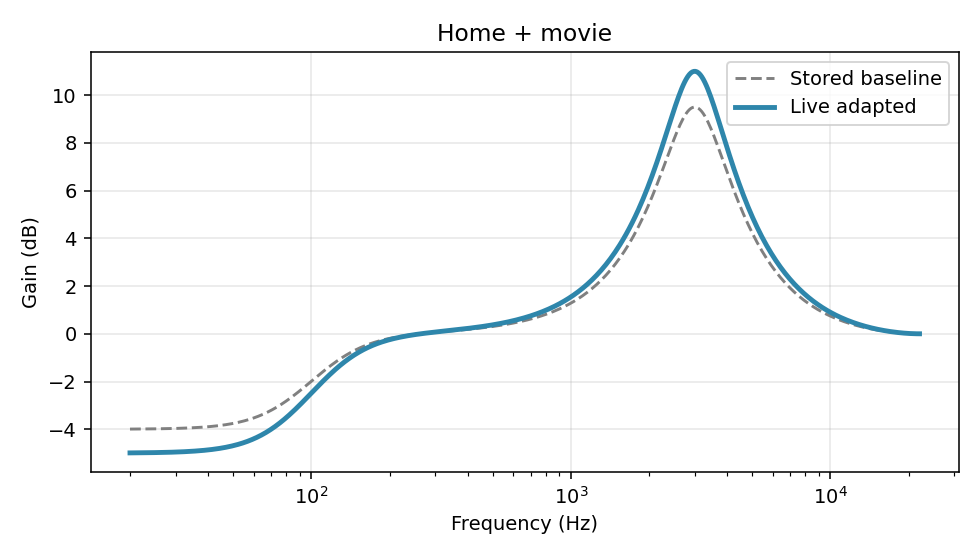
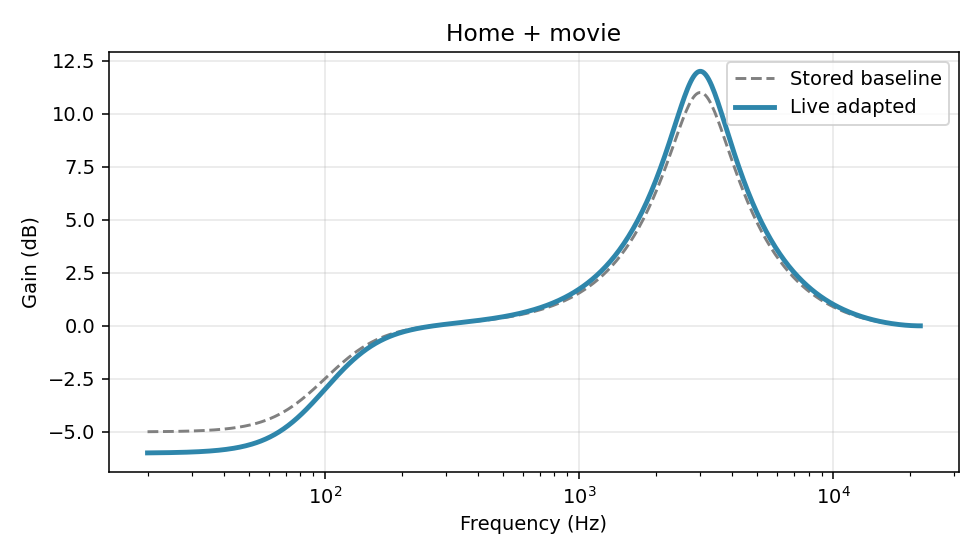
UI: minimalist, soft light theme for the dashboard
Custom .streamlit/config.toml theme (soft indigo primary, warm off-white
background) plus targeted CSS for card-style sections, rounded corners,
soft shadows, a gradient primary button, and Inter typography. Also
shortens genre-bucket/model labels so metric tiles don't truncate, and
tunes chart colors to match. No functional changes -- app.py's pipeline
calls and data flow are untouched.

diff --git a/app.py b/app.py
@@ -35,6 +35,92 @@ st.set_page_config(page_title="AuraTune", page_icon="🎧", layout="wide")
 SR = 44100
 USER_ID = "demo_user"
 
+# ---------------------------------------------------------------------------
+# Visual theme -- soft, minimalist, light. Colors/typography also configured
+# in .streamlit/config.toml; this fills in what the theme API can't reach
+# (card containers, metric tiles, buttons, chips) with the same palette.
+# ---------------------------------------------------------------------------
+_AURATUNE_CSS = """
+<link href="https://fonts.googleapis.com/css2?family=Inter:wght@400;500;600;700&display=swap" rel="stylesheet">
+<style>
+:root {
+    --at-primary: #6C7BFF;
+    --at-primary-soft: #EEF0FF;
+    --at-accent: #F5A56B;
+    --at-accent-soft: #FFF3E9;
+    --at-ink: #2D3142;
+    --at-muted: #767B93;
+    --at-card: #FFFFFF;
+    --at-border: #EAECF5;
+}
+html, body, [class*="css"] { font-family: 'Inter', -apple-system, sans-serif; }
+.block-container { padding-top: 2rem; padding-bottom: 3rem; max-width: 1200px; }
+h1 { font-weight: 700 !important; color: var(--at-ink) !important; letter-spacing: -0.02em; }
+h2, h3 { font-weight: 600 !important; color: var(--at-ink) !important; }
+[data-testid="stCaptionContainer"] { color: var(--at-muted) !important; }
+div[data-testid="stVerticalBlockBorderWrapper"] {
+    border: 1px solid var(--at-border) !important;
+    border-radius: 18px !important;
+    background: var(--at-card);
+    box-shadow: 0 2px 10px rgba(45, 49, 66, 0.04);
+    padding: 0.25rem 0.25rem;
+    margin-bottom: 1rem;
+}
+[data-testid="stMetric"] {
+    background: var(--at-primary-soft);
+    border-radius: 14px;
+    padding: 0.9rem 1rem;
+    border: 1px solid var(--at-border);
+}
+[data-testid="stMetricLabel"] { color: var(--at-muted) !important; }
+[data-testid="stMetricValue"] {
+    color: var(--at-ink) !important;
+    font-weight: 700 !important;
+    font-size: 1.05rem !important;
+    white-space: normal !important;
+    overflow: visible !important;
+    text-overflow: unset !important;
+    line-height: 1.3 !important;
+    word-break: break-word !important;
+}
+div.stButton > button {
+    border-radius: 12px !important;
+    font-weight: 600 !important;
+    transition: transform 0.12s ease, box-shadow 0.12s ease;
+    border: none !important;
+}
+div.stButton > button[kind="primary"] {
+    background: linear-gradient(135deg, #6C7BFF 0%, #8A7BFF 100%) !important;
+    box-shadow: 0 4px 14px rgba(108, 123, 255, 0.35);
+}
+div.stButton > button[kind="primary"]:hover {
+    transform: translateY(-1px);
+    box-shadow: 0 6px 18px rgba(108, 123, 255, 0.45);
+}
+div.stButton > button:not([kind="primary"]) { background: var(--at-primary-soft) !important; color: var(--at-ink) !important; }
+.stTextInput input, .stNumberInput input, [data-baseweb="select"] > div, .stFileUploader section {
+    border-radius: 12px !important;
+    border-color: var(--at-border) !important;
+}
+[data-testid="stAlert"] { border-radius: 14px !important; }
+[data-testid="stExpander"] { border-radius: 14px !important; border-color: var(--at-border) !important; overflow: hidden; }
+[data-testid="stTable"] { border-radius: 12px; overflow: hidden; }
+.at-chip {
+    display: inline-block;
+    background: var(--at-accent-soft);
+    color: #B5652A;
+    font-size: 0.72rem;
+    font-weight: 700;
+    letter-spacing: 0.04em;
+    text-transform: uppercase;
+    padding: 0.15rem 0.6rem;
+    border-radius: 999px;
+    margin-bottom: 0.35rem;
+}
+</style>
+"""
+st.markdown(_AURATUNE_CSS, unsafe_allow_html=True)
+
 
 @st.cache_resource
 def get_store():
@@ -49,6 +135,38 @@ def get_eq():
 def _slugify(name: str) -> str:
     keep = [c.lower() if c.isalnum() else "_" for c in name]
     return "".join(keep).strip("_") or "custom_eq"
+
+
+_MODEL_DISPLAY_NAMES = {
+    "gradient_boosting": "Gradient Boost",
+    "neural_net": "Neural Net",
+    "logistic_regression": "Logistic Reg.",
+}
+_GENRE_DISPLAY_NAMES = {
+    "electronic_dance": "Electronic",
+    "rock_metal": "Rock / Metal",
+    "hiphop_rnb": "Hip-Hop / R&B",
+    "pop": "Pop",
+    "acoustic_folk": "Acoustic",
+    "classical_jazz": "Classical / Jazz",
+    "chill_ambient": "Chill",
+    "world_latin": "World / Latin",
+}
+# Shorter single-word labels for the probability bar chart, where multi-word
+# labels wrap/clip on the narrow rotated category axis.
+_GENRE_CHART_NAMES = {
+    "electronic_dance": "Electronic", "rock_metal": "Rock", "hiphop_rnb": "Hip-Hop",
+    "pop": "Pop", "acoustic_folk": "Acoustic", "classical_jazz": "Classical",
+    "chill_ambient": "Chill", "world_latin": "World",
+}
+
+
+def _model_label(name: str) -> str:
+    return _MODEL_DISPLAY_NAMES.get(name, name)
+
+
+def _genre_label(bucket: str) -> str:
+    return _GENRE_DISPLAY_NAMES.get(bucket, bucket.replace("_", " / "))
 
 
 @st.cache_data(show_spinner="Reading your EQ screenshot…")
@@ -105,7 +223,7 @@ def _num(x: float) -> str:
 
 def eq_spec_picker() -> EqualizerSpec | None:
     """Pick a built-in / saved spec, upload a screenshot, or build one by hand."""
-    st.subheader("Your EQ app")
+    st.subheader("🎧 Your EQ app")
     specs = all_specs()
     saved = list(specs.keys())
     options = ["📷 Upload a screenshot…"] + saved + ["Manual…", "(none — just show the curve)"]
@@ -173,51 +291,53 @@ def eq_spec_picker() -> EqualizerSpec | None:
     return _spec_editor(detected, key="upload")
 
 
+st.markdown('<span class="at-chip">🎧 Adaptive Audio Personalization</span>', unsafe_allow_html=True)
 st.title("AuraTune")
-st.caption("Adaptive Audio Personalization Engine — perception → 3-agent LangGraph → your EQ")
+st.caption("Perception → 3-agent LangGraph → your EQ, explained in plain English")
 
-col_left, col_right = st.columns([1, 1.4])
+col_left, col_right = st.columns([1, 1.4], gap="medium")
 
 with col_left:
-    st.subheader("Scenario")
-    scenario_key = st.selectbox(
-        "Simulated context",
-        list(SCENARIO_LABELS.keys()),
-        format_func=lambda k: SCENARIO_LABELS[k],
-    )
-    user_command = st.text_input(
-        "Live command (optional)",
-        placeholder="e.g. make voices clearer, less bass",
-    )
-
-    if genre_classifier.available():
-        model_options = ["auto (best)"] + genre_classifier.list_models()
-        genre_model_choice = st.selectbox(
-            "Genre model (local ML)", model_options,
-            help="For music content, locally classifies the genre/mood into "
-                 "one of 8 buckets and leans the EQ curve accordingly. "
-                 "Trained on the 114k-track Spotify dataset -- see ml/README.md.",
+    with st.container(border=True):
+        st.subheader("🎬 Scenario")
+        scenario_key = st.selectbox(
+            "Simulated context",
+            list(SCENARIO_LABELS.keys()),
+            format_func=lambda k: SCENARIO_LABELS[k],
         )
-        genre_model_name = "auto" if genre_model_choice.startswith("auto") else genre_model_choice
-    else:
-        genre_model_name = "auto"
-        st.caption("No trained genre model found — run `python ml/train.py` "
-                   "once to enable local ML genre-aware EQ tuning.")
+        user_command = st.text_input(
+            "Live command (optional)",
+            placeholder="e.g. make voices clearer, less bass",
+        )
 
-    st.divider()
-    eq_spec = eq_spec_picker()
+        if genre_classifier.available():
+            model_options = ["auto (best)"] + genre_classifier.list_models()
+            genre_model_choice = st.selectbox(
+                "Genre model (local ML)", model_options,
+                format_func=lambda k: k if k.startswith("auto") else _model_label(k),
+                help="For music content, locally classifies the genre/mood into "
+                     "one of 8 buckets and leans the EQ curve accordingly. "
+                     "Trained on the 114k-track Spotify dataset -- see ml/README.md.",
+            )
+            genre_model_name = "auto" if genre_model_choice.startswith("auto") else genre_model_choice
+        else:
+            genre_model_name = "auto"
+            st.caption("No trained genre model found — run `python ml/train.py` "
+                       "once to enable local ML genre-aware EQ tuning.")
 
-    st.divider()
-    run_clicked = st.button("Run adaptation", type="primary")
+    with st.container(border=True):
+        eq_spec = eq_spec_picker()
 
-    st.divider()
-    st.subheader("History")
-    store = get_store()
-    history = store.get_history(USER_ID, limit=8)
-    if not history:
-        st.caption("No adjustments logged yet.")
-    for h in reversed(history):
-        st.markdown(f"- **{h['content_type']}** / {h['noise_level']} — {h['explanation']}")
+    run_clicked = st.button("▶  Run adaptation", type="primary", use_container_width=True)
+
+    with st.container(border=True):
+        st.subheader("🕘 History")
+        store = get_store()
+        history = store.get_history(USER_ID, limit=8)
+        if not history:
+            st.caption("No adjustments logged yet.")
+        for h in reversed(history):
+            st.markdown(f"- **{h['content_type']}** / {h['noise_level']} — {h['explanation']}")
 
 with col_right:
     if run_clicked:
@@ -231,68 +351,77 @@ with col_right:
                                   equalizer_spec=eq_spec, content_audio=content,
                                   sample_rate=SR, genre_model=genre_model_name)
 
-        st.subheader("Detected context")
-        c1, c2, c3 = st.columns(3)
-        c1.metric("Noise level", ctx.noise_level)
-        c2.metric("Content type", ctx.content_type)
-        c3.metric("Ambient level", f"{ctx.ambient_rms_db} dB")
+        with st.container(border=True):
+            st.subheader("📡 Detected context")
+            c1, c2, c3 = st.columns(3)
+            c1.metric("Noise level", ctx.noise_level)
+            c2.metric("Content type", ctx.content_type)
+            c3.metric("Ambient level", f"{ctx.ambient_rms_db} dB")
 
         proj = result.get("projected_eq")
 
         if result.get("genre_bucket"):
-            st.subheader("Detected genre (local ML model)")
-            g1, g2, g3 = st.columns(3)
-            g1.metric("Genre bucket", result["genre_bucket"].replace("_", " / "))
-            g2.metric("Confidence", f"{result.get('genre_confidence', 0) * 100:.0f}%")
-            g3.metric("Model used", result.get("genre_model_used", "-"))
-            probs = result.get("genre_probabilities") or {}
-            if probs:
-                st.bar_chart(dict(sorted(probs.items(), key=lambda kv: -kv[1])))
+            with st.container(border=True):
+                st.subheader("🎼 Detected genre (local ML model)")
+                g1, g2, g3 = st.columns(3)
+                g1.metric("Genre bucket", _genre_label(result["genre_bucket"]))
+                g2.metric("Confidence", f"{result.get('genre_confidence', 0) * 100:.0f}%")
+                g3.metric("Model used", _model_label(result.get("genre_model_used", "-")))
+                probs = result.get("genre_probabilities") or {}
+                if probs:
+                    labeled = {_GENRE_CHART_NAMES.get(k, k): v for k, v in
+                              sorted(probs.items(), key=lambda kv: -kv[1])}
+                    st.bar_chart(labeled, color="#6C7BFF")
         elif result.get("genre_unavailable_reason"):
             st.caption(f"Genre model unavailable: {result['genre_unavailable_reason']}")
 
-        st.subheader("Live EQ curve")
-        freqs_before, mag_before = eq.frequency_response(result["baseline_curve"])
-        freqs_after, mag_after = eq.frequency_response(result["decided_curve"])
+        with st.container(border=True):
+            st.subheader("📈 Live EQ curve")
+            freqs_before, mag_before = eq.frequency_response(result["baseline_curve"])
+            freqs_after, mag_after = eq.frequency_response(result["decided_curve"])
 
-        fig = go.Figure()
-        fig.add_trace(go.Scatter(x=freqs_before, y=mag_before, name="Stored baseline",
-                                  line=dict(dash="dash", color="gray")))
-        fig.add_trace(go.Scatter(x=freqs_after, y=mag_after, name="Live adapted curve",
-                                  line=dict(color="#2E86AB", width=3)))
+            fig = go.Figure()
+            fig.add_trace(go.Scatter(x=freqs_before, y=mag_before, name="Stored baseline",
+                                      line=dict(dash="dash", color="#C7CBDE")))
+            fig.add_trace(go.Scatter(x=freqs_after, y=mag_after, name="Live adapted curve",
+                                      line=dict(color="#6C7BFF", width=3)))
+            if proj is not None:
+                fig.add_trace(go.Scatter(
+                    x=[b.freq_hz for b in proj.bands],
+                    y=[b.set_gain_db for b in proj.bands],
+                    name=f"{proj.spec_name} sliders",
+                    mode="markers+lines",
+                    line=dict(color="#F5A56B", width=1, dash="dot"),
+                    marker=dict(size=10, color="#F5A56B"),
+                ))
+            fig.update_xaxes(type="log", title="Frequency (Hz)", gridcolor="#EEF0F7")
+            fig.update_yaxes(title="Gain (dB)", gridcolor="#EEF0F7")
+            fig.update_layout(height=380, margin=dict(l=10, r=10, t=10, b=10),
+                               legend=dict(orientation="h", y=1.1),
+                               plot_bgcolor="white", paper_bgcolor="rgba(0,0,0,0)",
+                               font=dict(family="Inter, sans-serif", color="#2D3142"))
+            st.plotly_chart(fig, use_container_width=True)
+
         if proj is not None:
-            fig.add_trace(go.Scatter(
-                x=[b.freq_hz for b in proj.bands],
-                y=[b.set_gain_db for b in proj.bands],
-                name=f"{proj.spec_name} sliders",
-                mode="markers+lines",
-                line=dict(color="#E8871E", width=1, dash="dot"),
-                marker=dict(size=10, color="#E8871E"),
-            ))
-        fig.update_xaxes(type="log", title="Frequency (Hz)")
-        fig.update_yaxes(title="Gain (dB)")
-        fig.update_layout(height=380, margin=dict(l=10, r=10, t=10, b=10),
-                           legend=dict(orientation="h", y=1.1))
-        st.plotly_chart(fig, use_container_width=True)
+            with st.container(border=True):
+                st.subheader(f"🎯 Set these on {proj.spec_name}")
+                st.table(proj.as_table_rows())
+                note = f"Curve fit within ±{proj.fit_error_db:.1f} dB of the ideal across bands."
+                if proj.clipped_freqs:
+                    note += (" Some bands hit the app's range limit — that's the closest "
+                             "it can get.")
+                if not proj.has_preamp:
+                    note += ("  *This app has no preamp; the value is how much to lower the "
+                             "media/app volume so the boosts don't clip.")
+                st.caption(note)
 
-        if proj is not None:
-            st.subheader(f"Set these on {proj.spec_name}")
-            st.table(proj.as_table_rows())
-            note = f"Curve fit within ±{proj.fit_error_db:.1f} dB of the ideal across bands."
-            if proj.clipped_freqs:
-                note += (" Some bands hit the app's range limit — that's the closest "
-                         "it can get.")
-            if not proj.has_preamp:
-                note += ("  *This app has no preamp; the value is how much to lower the "
-                         "media/app volume so the boosts don't clip.")
-            st.caption(note)
+                txt = "\n".join(f"{r['Frequency']}\t{r['Set to (dB)']}" for r in proj.as_table_rows())
+                st.download_button("⬇  Download these settings (.txt)", txt,
+                                   file_name=f"{_slugify(proj.spec_name)}_settings.txt")
 
-            txt = "\n".join(f"{r['Frequency']}\t{r['Set to (dB)']}" for r in proj.as_table_rows())
-            st.download_button("Download these settings (.txt)", txt,
-                               file_name=f"{_slugify(proj.spec_name)}_settings.txt")
-
-        st.subheader("Explanation")
-        st.info(result["explanation"])
+        with st.container(border=True):
+            st.subheader("💬 Explanation")
+            st.info(result["explanation"])
 
         with st.expander("Raw deltas (debug)"):
             dbg = {
@@ -306,4 +435,7 @@ with col_right:
                 dbg["projected_eq"] = proj.to_dict()
             st.json(dbg)
     else:
-        st.caption("Pick a scenario, choose your EQ app, and click **Run adaptation**.")
+        with st.container(border=True):
+            st.markdown("#### 👋 Ready when you are")
+            st.caption("Pick a scenario, choose your EQ app on the left, and click "
+                       "**Run adaptation** to see the live curve and explanation appear here.")

diff --git a/validation/output/report.md b/validation/output/report.md
@@ -7,14 +7,14 @@
 - Curve plot: `quiet_podcast.png`
 
 ## Noisy environment + music
-- Detected: noise=`noisy`, content=`music`, ambient=-21.9 dB
-- Deltas: {'volume_db': 0.0, 'bass_gain_db': -2.24, 'presence_gain_db': 0.0, 'treble_gain_db': -0.52}
+- Detected: noise=`noisy`, content=`music`, ambient=-22.0 dB
+- Deltas: {'volume_db': 0.0, 'bass_gain_db': -0.26, 'presence_gain_db': 0.0, 'treble_gain_db': -0.52}
 - Genre (local ML, gradient_boosting): `chill_ambient` (74% confidence)
-- Explanation: "Because of a noisy environment during music, I pulled bass back 2.2 dB, warmed treble by 0.5 dB. Sounds like chill/ambient (74% confidence, local gradient_boosting model), so I leaned the curve that way."
+- Explanation: "Because of a noisy environment during music, I pulled bass back 0.3 dB, warmed treble by 0.5 dB. Sounds like chill/ambient (74% confidence, local gradient_boosting model), so I leaned the curve that way."
 - Curve plot: `noisy_music.png`
 
 ## Home + movie
 - Detected: noise=`moderate`, content=`movie`, ambient=-36.5 dB
-- Deltas: {'volume_db': 0.0, 'bass_gain_db': -1.0, 'presence_gain_db': 1.5, 'treble_gain_db': 0.0}
-- Explanation: "Because of a moderate environment during movie, I boosted vocal clarity by 1.5 dB, pulled bass back 1.0 dB."
+- Deltas: {'volume_db': 0.0, 'bass_gain_db': -1.0, 'presence_gain_db': 1.0, 'treble_gain_db': 0.0}
+- Explanation: "Because of a moderate environment during movie, I boosted vocal clarity by 1.0 dB, pulled bass back 1.0 dB."
 - Curve plot: `home_movie.png`
